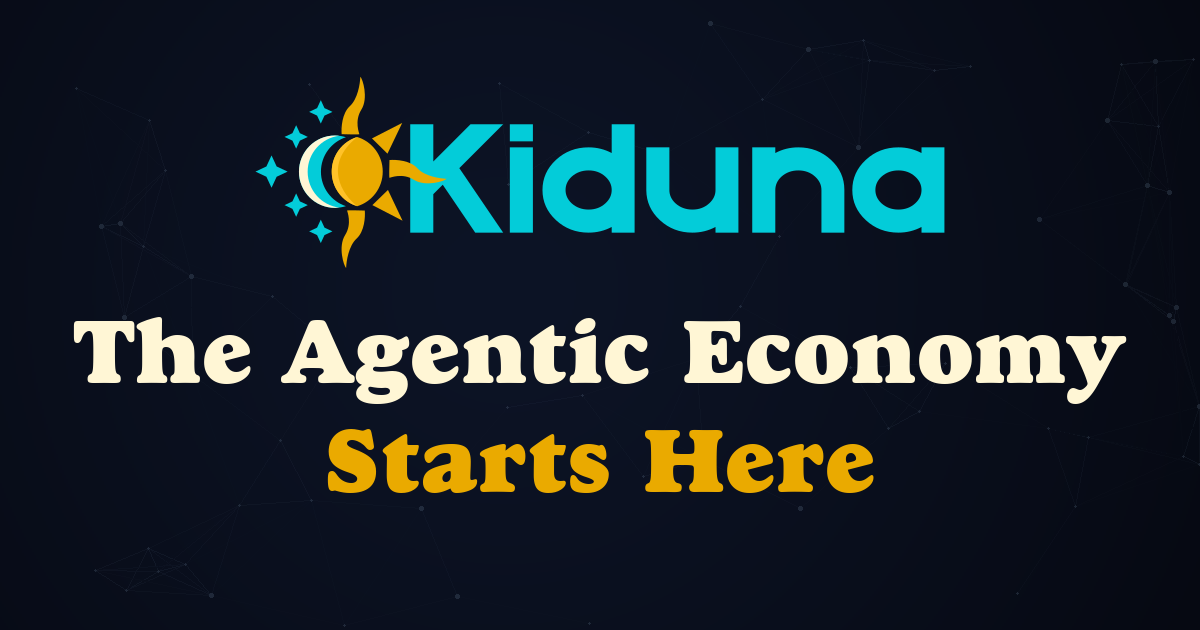
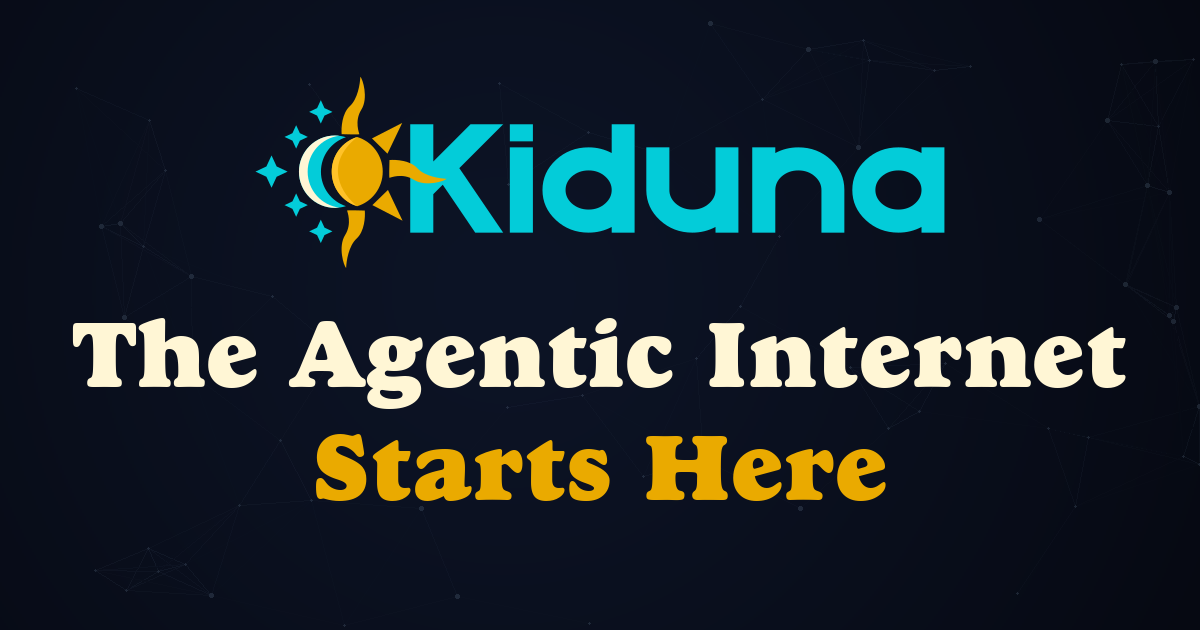
Retagline to "The Agentic Internet Starts Here"; lock app viewport post-login
Site-wide: change hero H1 and OG/Twitter meta from "The Agentic Economy
Starts Here" to "The Agentic Internet Starts Here" across all pages; refresh
og-cover.png to match.

App shell: only lock viewport scroll and hide marketing chrome once inside
the app (new body.in-app class toggled on login/logout), so the pre-login
marketing header, prototype banner, and auth screen scroll normally.

Ignore the /kiduna web v2/ local backup snapshot.

Changed region(s): [[0.0617, 0.4825, 0.9558, 0.6635], [0.2467, 0.6635, 0.74, 0.8143], [0.0617, 0.4825, 0.0925, 0.5127]]

diff --git a/index.html b/index.html
@@ -7,15 +7,15 @@
   <meta property="og:type" content="website">
   <meta property="og:site_name" content="Kiduna Club">
   <meta property="og:title" content="Kiduna Club">
-  <meta property="og:description" content="The Agentic Economy Starts Here">
+  <meta property="og:description" content="The Agentic Internet Starts Here">
   <meta property="og:url" content="https://kiduna.club/">
   <meta property="og:image" content="https://kiduna.club/assets/og-cover.png">
   <meta property="og:image:width" content="1200">
   <meta property="og:image:height" content="630">
-  <meta property="og:image:alt" content="Kiduna Club — The Agentic Economy Starts Here">
+  <meta property="og:image:alt" content="Kiduna Club — The Agentic Internet Starts Here">
   <meta name="twitter:card" content="summary_large_image">
   <meta name="twitter:title" content="Kiduna Club">
-  <meta name="twitter:description" content="The Agentic Economy Starts Here">
+  <meta name="twitter:description" content="The Agentic Internet Starts Here">
   <meta name="twitter:image" content="https://kiduna.club/assets/og-cover.png">
   <meta name="description" content="On July 1, 2026, a new West Virginia law gives intelligent agents the three things the open internet never could — identity, authority, and accountability. The Summerlong Dunathon is ten weeks of building the next era of commerce, governance, and collective action.">
   <link rel="icon" type="image/svg+xml" href="assets/wv-cosmic-mark.svg">
@@ -94,7 +94,7 @@
     <div class="wrap">
       <div class="inner">
         <div class="eyebrow"><span class="dot"></span>Software as Big as the World.</div>
-        <h1>The Agentic Economy <em class="wv-emph">Starts Here.</em></h1>
+        <h1>The Agentic Internet <em class="wv-emph">Starts Here.</em></h1>
         <p class="lead">Build, launch, and scale agentic organizations on the open internet at <strong>machine speed</strong>. Join a living ecosystem where exceptional people and intelligent agents collaborate to create applications, experiences, movements, markets, knowledge, and entirely new ways of working, playing, creating, and thriving.</p>
         <p class="lead"><b>Everyone builds. Everyone contributes. Everyone can earn.</b></p>
         <p class="lead">Build with people who elevate your craft and agents that amplify your impact in an ecosystem where every contribution expands the frontier of individual, organizational, and collective agency.</p>

diff --git a/nightpapers.html b/nightpapers.html
@@ -7,15 +7,15 @@
   <meta property="og:type" content="website">
   <meta property="og:site_name" content="Kiduna Club">
   <meta property="og:title" content="Kiduna Club">
-  <meta property="og:description" content="The Agentic Economy Starts Here">
+  <meta property="og:description" content="The Agentic Internet Starts Here">
   <meta property="og:url" content="https://kiduna.club/nightpapers.html">
   <meta property="og:image" content="https://kiduna.club/assets/og-cover.png">
   <meta property="og:image:width" content="1200">
   <meta property="og:image:height" content="630">
-  <meta property="og:image:alt" content="Kiduna Club — The Agentic Economy Starts Here">
+  <meta property="og:image:alt" content="Kiduna Club — The Agentic Internet Starts Here">
   <meta name="twitter:card" content="summary_large_image">
   <meta name="twitter:title" content="Kiduna Club">
-  <meta name="twitter:description" content="The Agentic Economy Starts Here">
+  <meta name="twitter:description" content="The Agentic Internet Starts Here">
   <meta name="twitter:image" content="https://kiduna.club/assets/og-cover.png">
   <meta name="description" content="Part technical spec, part personal essay, part research notebook, and part invitation to conspire — the Nightpapers explore the technologies, philosophies, economics, governance, and personal journeys shaping the agentic economy.">
   <link rel="icon" type="image/svg+xml" href="assets/wv-cosmic-mark.svg">

diff --git a/showcase.html b/showcase.html
@@ -7,15 +7,15 @@
   <meta property="og:type" content="website">
   <meta property="og:site_name" content="Kiduna Club">
   <meta property="og:title" content="Kiduna Club">
-  <meta property="og:description" content="The Agentic Economy Starts Here">
+  <meta property="og:description" content="The Agentic Internet Starts Here">
   <meta property="og:url" content="https://kiduna.club/showcase.html">
   <meta property="og:image" content="https://kiduna.club/assets/og-cover.png">
   <meta property="og:image:width" content="1200">
   <meta property="og:image:height" content="630">
-  <meta property="og:image:alt" content="Kiduna Club — The Agentic Economy Starts Here">
+  <meta property="og:image:alt" content="Kiduna Club — The Agentic Internet Starts Here">
   <meta name="twitter:card" content="summary_large_image">
   <meta name="twitter:title" content="Kiduna Club">
-  <meta name="twitter:description" content="The Agentic Economy Starts Here">
+  <meta name="twitter:description" content="The Agentic Internet Starts Here">
   <meta name="twitter:image" content="https://kiduna.club/assets/og-cover.png">
   <meta name="description" content="A living laboratory of new organizations, communities, ventures, and causes. Follow founders turning ideas into institutions through transparent decision markets. Everything learned is shared.">
   <link rel="icon" type="image/svg+xml" href="assets/wv-cosmic-mark.svg">

diff --git a/app.html b/app.html
@@ -7,15 +7,15 @@
   <meta property="og:type" content="website">
   <meta property="og:site_name" content="Kiduna Club">
   <meta property="og:title" content="Kiduna Club">
-  <meta property="og:description" content="The Agentic Economy Starts Here">
+  <meta property="og:description" content="The Agentic Internet Starts Here">
   <meta property="og:url" content="https://kiduna.club/app.html">
   <meta property="og:image" content="https://kiduna.club/assets/og-cover.png">
   <meta property="og:image:width" content="1200">
   <meta property="og:image:height" content="630">
-  <meta property="og:image:alt" content="Kiduna Club — The Agentic Economy Starts Here">
+  <meta property="og:image:alt" content="Kiduna Club — The Agentic Internet Starts Here">
   <meta name="twitter:card" content="summary_large_image">
   <meta name="twitter:title" content="Kiduna Club">
-  <meta name="twitter:description" content="The Agentic Economy Starts Here">
+  <meta name="twitter:description" content="The Agentic Internet Starts Here">
   <meta name="twitter:image" content="https://kiduna.club/assets/og-cover.png">
 <meta name="description" content="The DunaVERSE — the integrated Kiduna Club app, with Clubhouse and Studio in one place.">
 <link rel="stylesheet" href="assets/colors_and_type.css">

diff --git a/privacy.html b/privacy.html
@@ -7,15 +7,15 @@
   <meta property="og:type" content="website">
   <meta property="og:site_name" content="Kiduna Club">
   <meta property="og:title" content="Kiduna Club">
-  <meta property="og:description" content="The Agentic Economy Starts Here">
+  <meta property="og:description" content="The Agentic Internet Starts Here">
   <meta property="og:url" content="https://kiduna.club/privacy.html">
   <meta property="og:image" content="https://kiduna.club/assets/og-cover.png">
   <meta property="og:image:width" content="1200">
   <meta property="og:image:height" content="630">
-  <meta property="og:image:alt" content="Kiduna Club — The Agentic Economy Starts Here">
+  <meta property="og:image:alt" content="Kiduna Club — The Agentic Internet Starts Here">
   <meta name="twitter:card" content="summary_large_image">
   <meta name="twitter:title" content="Kiduna Club">
-  <meta name="twitter:description" content="The Agentic Economy Starts Here">
+  <meta name="twitter:description" content="The Agentic Internet Starts Here">
   <meta name="twitter:image" content="https://kiduna.club/assets/og-cover.png">
   <meta name="description" content="Privacy Policy for Kiduna Club and the Summerlong Dunathon.">
   <link rel="icon" type="image/svg+xml" href="assets/wv-cosmic-mark.svg">

diff --git a/specs/skills/kiduna-service-framework-spec/index.html b/specs/skills/kiduna-service-framework-spec/index.html
@@ -5,15 +5,15 @@
   <meta property="og:type" content="website">
   <meta property="og:site_name" content="Kiduna Club">
   <meta property="og:title" content="Kiduna Club">
-  <meta property="og:description" content="The Agentic Economy Starts Here">
+  <meta property="og:description" content="The Agentic Internet Starts Here">
   <meta property="og:url" content="https://kiduna.club/specs/skills/kiduna-service-framework-spec/index.html">
   <meta property="og:image" content="https://kiduna.club/assets/og-cover.png">
   <meta property="og:image:width" content="1200">
   <meta property="og:image:height" content="630">
-  <meta property="og:image:alt" content="Kiduna Club — The Agentic Economy Starts Here">
+  <meta property="og:image:alt" content="Kiduna Club — The Agentic Internet Starts Here">
   <meta name="twitter:card" content="summary_large_image">
   <meta name="twitter:title" content="Kiduna Club">
-  <meta name="twitter:description" content="The Agentic Economy Starts Here">
+  <meta name="twitter:description" content="The Agentic Internet Starts Here">
   <meta name="twitter:image" content="https://kiduna.club/assets/og-cover.png">
 <link rel="stylesheet" href="../../styles.css">
 <link rel="icon" type="image/svg+xml" href="../../../assets/wv-cosmic-mark.svg">

diff --git a/tos.html b/tos.html
@@ -7,15 +7,15 @@
   <meta property="og:type" content="website">
   <meta property="og:site_name" content="Kiduna Club">
   <meta property="og:title" content="Kiduna Club">
-  <meta property="og:description" content="The Agentic Economy Starts Here">
+  <meta property="og:description" content="The Agentic Internet Starts Here">
   <meta property="og:url" content="https://kiduna.club/tos.html">
   <meta property="og:image" content="https://kiduna.club/assets/og-cover.png">
   <meta property="og:image:width" content="1200">
   <meta property="og:image:height" content="630">
-  <meta property="og:image:alt" content="Kiduna Club — The Agentic Economy Starts Here">
+  <meta property="og:image:alt" content="Kiduna Club — The Agentic Internet Starts Here">
   <meta name="twitter:card" content="summary_large_image">
   <meta name="twitter:title" content="Kiduna Club">
-  <meta name="twitter:description" content="The Agentic Economy Starts Here">
+  <meta name="twitter:description" content="The Agentic Internet Starts Here">
   <meta name="twitter:image" content="https://kiduna.club/assets/og-cover.png">
   <meta name="description" content="Terms of Service for Kiduna Club and the Summerlong Dunathon.">
   <link rel="icon" type="image/svg+xml" href="assets/wv-cosmic-mark.svg">

diff --git a/specs/skills/kiduna-graduation-governance/index.html b/specs/skills/kiduna-graduation-governance/index.html
@@ -5,15 +5,15 @@
   <meta property="og:type" content="website">
   <meta property="og:site_name" content="Kiduna Club">
   <meta property="og:title" content="Kiduna Club">
-  <meta property="og:description" content="The Agentic Economy Starts Here">
+  <meta property="og:description" content="The Agentic Internet Starts Here">
   <meta property="og:url" content="https://kiduna.club/specs/skills/kiduna-graduation-governance/index.html">
   <meta property="og:image" content="https://kiduna.club/assets/og-cover.png">
   <meta property="og:image:width" content="1200">
   <meta property="og:image:height" content="630">
-  <meta property="og:image:alt" content="Kiduna Club — The Agentic Economy Starts Here">
+  <meta property="og:image:alt" content="Kiduna Club — The Agentic Internet Starts Here">
   <meta name="twitter:card" content="summary_large_image">
   <meta name="twitter:title" content="Kiduna Club">
-  <meta name="twitter:description" content="The Agentic Economy Starts Here">
+  <meta name="twitter:description" content="The Agentic Internet Starts Here">
   <meta name="twitter:image" content="https://kiduna.club/assets/og-cover.png">
 <link rel="stylesheet" href="../../styles.css">
 <link rel="icon" type="image/svg+xml" href="../../../assets/wv-cosmic-mark.svg">

diff --git a/specs/skills/kiduna-club-product-specs/index.html b/specs/skills/kiduna-club-product-specs/index.html
@@ -5,15 +5,15 @@
   <meta property="og:type" content="website">
   <meta property="og:site_name" content="Kiduna Club">
   <meta property="og:title" content="Kiduna Club">
-  <meta property="og:description" content="The Agentic Economy Starts Here">
+  <meta property="og:description" content="The Agentic Internet Starts Here">
   <meta property="og:url" content="https://kiduna.club/specs/skills/kiduna-club-product-specs/index.html">
   <meta property="og:image" content="https://kiduna.club/assets/og-cover.png">
   <meta property="og:image:width" content="1200">
   <meta property="og:image:height" content="630">
-  <meta property="og:image:alt" content="Kiduna Club — The Agentic Economy Starts Here">
+  <meta property="og:image:alt" content="Kiduna Club — The Agentic Internet Starts Here">
   <meta name="twitter:card" content="summary_large_image">
   <meta name="twitter:title" content="Kiduna Club">
-  <meta name="twitter:description" content="The Agentic Economy Starts Here">
+  <meta name="twitter:description" content="The Agentic Internet Starts Here">
   <meta name="twitter:image" content="https://kiduna.club/assets/og-cover.png">
 <link rel="stylesheet" href="../../styles.css">
 <link rel="icon" type="image/svg+xml" href="../../../assets/wv-cosmic-mark.svg">

diff --git a/specs/skills/kiduna-builder-kit-spec/index.html b/specs/skills/kiduna-builder-kit-spec/index.html
@@ -5,15 +5,15 @@
   <meta property="og:type" content="website">
   <meta property="og:site_name" content="Kiduna Club">
   <meta property="og:title" content="Kiduna Club">
-  <meta property="og:description" content="The Agentic Economy Starts Here">
+  <meta property="og:description" content="The Agentic Internet Starts Here">
   <meta property="og:url" content="https://kiduna.club/specs/skills/kiduna-builder-kit-spec/index.html">
   <meta property="og:image" content="https://kiduna.club/assets/og-cover.png">
   <meta property="og:image:width" content="1200">
   <meta property="og:image:height" content="630">
-  <meta property="og:image:alt" content="Kiduna Club — The Agentic Economy Starts Here">
+  <meta property="og:image:alt" content="Kiduna Club — The Agentic Internet Starts Here">
   <meta name="twitter:card" content="summary_large_image">
   <meta name="twitter:title" content="Kiduna Club">
-  <meta name="twitter:description" content="The Agentic Economy Starts Here">
+  <meta name="twitter:description" content="The Agentic Internet Starts Here">
   <meta name="twitter:image" content="https://kiduna.club/assets/og-cover.png">
 <link rel="stylesheet" href="../../styles.css">
 <link rel="icon" type="image/svg+xml" href="../../../assets/wv-cosmic-mark.svg">

diff --git a/specs/skills/kiduna-program-template/index.html b/specs/skills/kiduna-program-template/index.html
@@ -5,15 +5,15 @@
   <meta property="og:type" content="website">
   <meta property="og:site_name" content="Kiduna Club">
   <meta property="og:title" content="Kiduna Club">
-  <meta property="og:description" content="The Agentic Economy Starts Here">
+  <meta property="og:description" content="The Agentic Internet Starts Here">
   <meta property="og:url" content="https://kiduna.club/specs/skills/kiduna-program-template/index.html">
   <meta property="og:image" content="https://kiduna.club/assets/og-cover.png">
   <meta property="og:image:width" content="1200">
   <meta property="og:image:height" content="630">
-  <meta property="og:image:alt" content="Kiduna Club — The Agentic Economy Starts Here">
+  <meta property="og:image:alt" content="Kiduna Club — The Agentic Internet Starts Here">
   <meta name="twitter:card" content="summary_large_image">
   <meta name="twitter:title" content="Kiduna Club">
-  <meta name="twitter:description" content="The Agentic Economy Starts Here">
+  <meta name="twitter:description" content="The Agentic Internet Starts Here">
   <meta name="twitter:image" content="https://kiduna.club/assets/og-cover.png">
 <link rel="stylesheet" href="../../styles.css">
 <link rel="icon" type="image/svg+xml" href="../../../assets/wv-cosmic-mark.svg">

diff --git a/signup.html b/signup.html
@@ -7,15 +7,15 @@
   <meta property="og:type" content="website">
   <meta property="og:site_name" content="Kiduna Club">
   <meta property="og:title" content="Kiduna Club">
-  <meta property="og:description" content="The Agentic Economy Starts Here">
+  <meta property="og:description" content="The Agentic Internet Starts Here">
   <meta property="og:url" content="https://kiduna.club/signup.html">
   <meta property="og:image" content="https://kiduna.club/assets/og-cover.png">
   <meta property="og:image:width" content="1200">
   <meta property="og:image:height" content="630">
-  <meta property="og:image:alt" content="Kiduna Club — The Agentic Economy Starts Here">
+  <meta property="og:image:alt" content="Kiduna Club — The Agentic Internet Starts Here">
   <meta name="twitter:card" content="summary_large_image">
   <meta name="twitter:title" content="Kiduna Club">
-  <meta name="twitter:description" content="The Agentic Economy Starts Here">
+  <meta name="twitter:description" content="The Agentic Internet Starts Here">
   <meta name="twitter:image" content="https://kiduna.club/assets/og-cover.png">
 <meta name="description" content="Create your Kiduna Club account and claim your place in the network.">
 <link rel="stylesheet" href="assets/colors_and_type.css">
